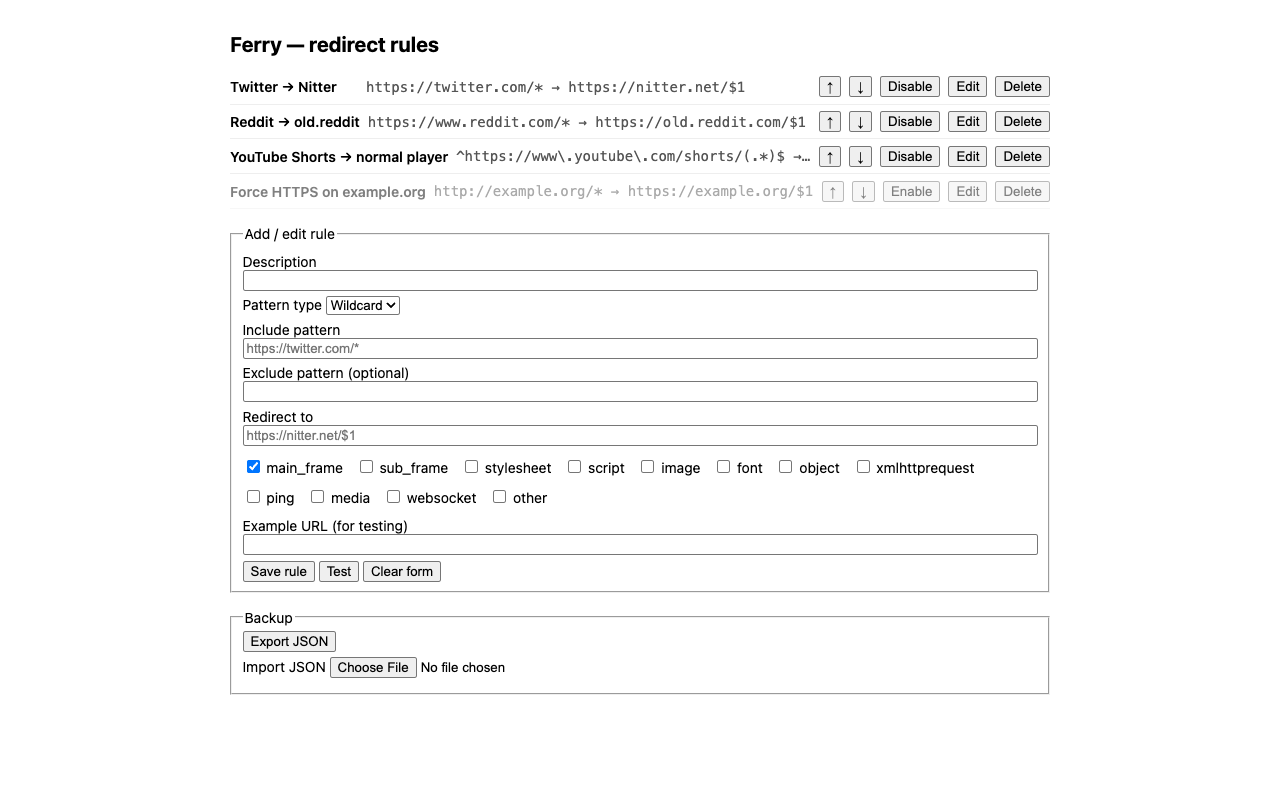
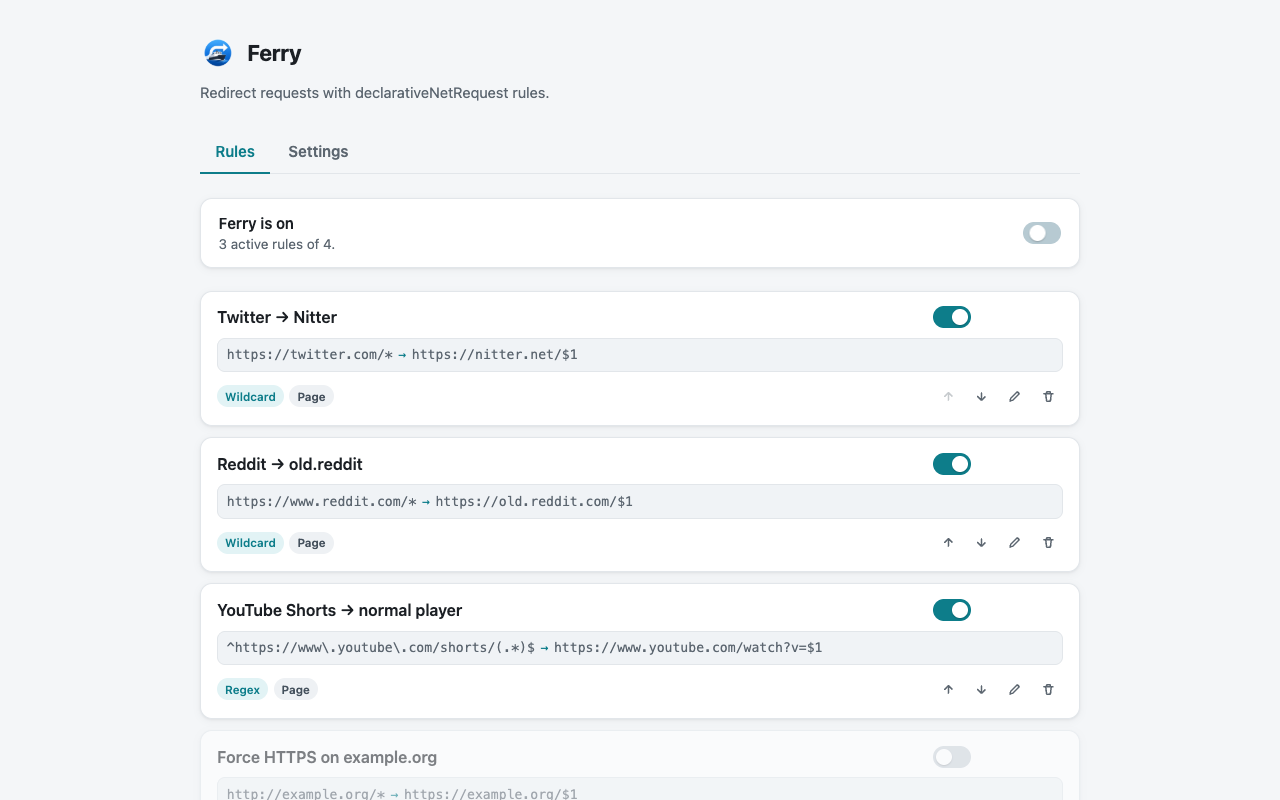
test(e2e): adapt options selectors to redesigned card UI
Update the disabled-edit e2e spec, screenshot script selectors, and
regenerate store screenshots against the redesigned options page
(.rule-card / toggle switch / icon buttons).

diff --git a/e2e/options.spec.ts b/e2e/options.spec.ts
@@ -13,18 +13,18 @@ test('editing a disabled rule keeps it disabled', async () => {
     await page.fill('#f-include', 'https://a.example/*');
     await page.fill('#f-redirect', 'https://b.example/$1');
     await page.click('#save');
-    await expect(page.locator('.rule')).toHaveCount(1);
+    await expect(page.locator('.rule-card')).toHaveCount(1);
 
-    await page.click('.rule button:text-is("Disable")');
-    await expect(page.locator('.rule.disabled')).toHaveCount(1);
+    await page.click('.rule-card .switch');
+    await expect(page.locator('.rule-card.disabled')).toHaveCount(1);
 
-    await page.click('.rule button:text-is("Edit")');
+    await page.click('.rule-card button[aria-label="Edit"]');
     await page.fill('#f-desc', 'my rule (edited)');
     await page.click('#save');
 
-    await expect(page.locator('.rule')).toHaveCount(1);
-    await expect(page.locator('.rule.disabled')).toHaveCount(1); // still disabled
-    await expect(page.locator('.rule .desc')).toHaveText('my rule (edited)');
+    await expect(page.locator('.rule-card')).toHaveCount(1);
+    await expect(page.locator('.rule-card.disabled')).toHaveCount(1); // still disabled
+    await expect(page.locator('.rule-card__title')).toHaveText('my rule (edited)');
   } finally {
     await context.close();
   }
